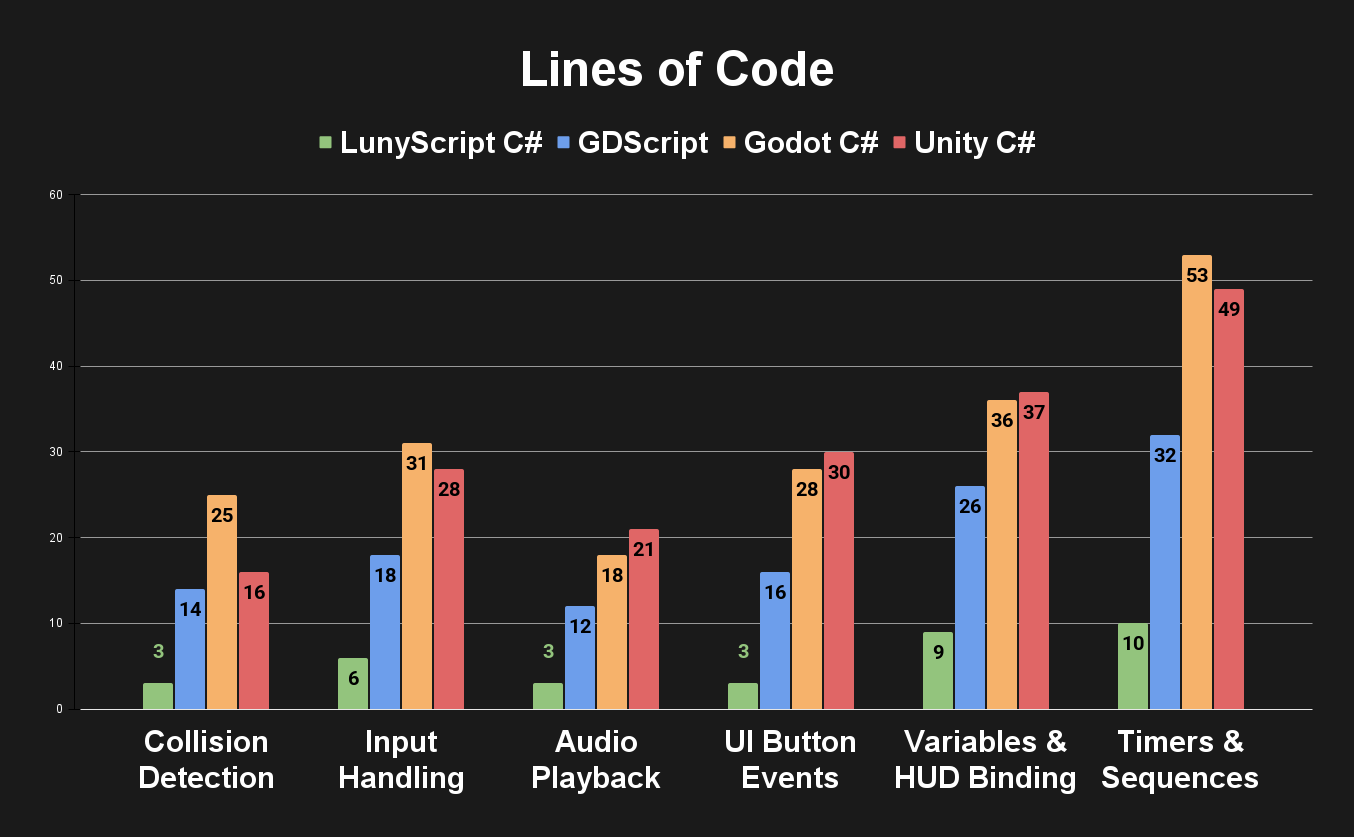
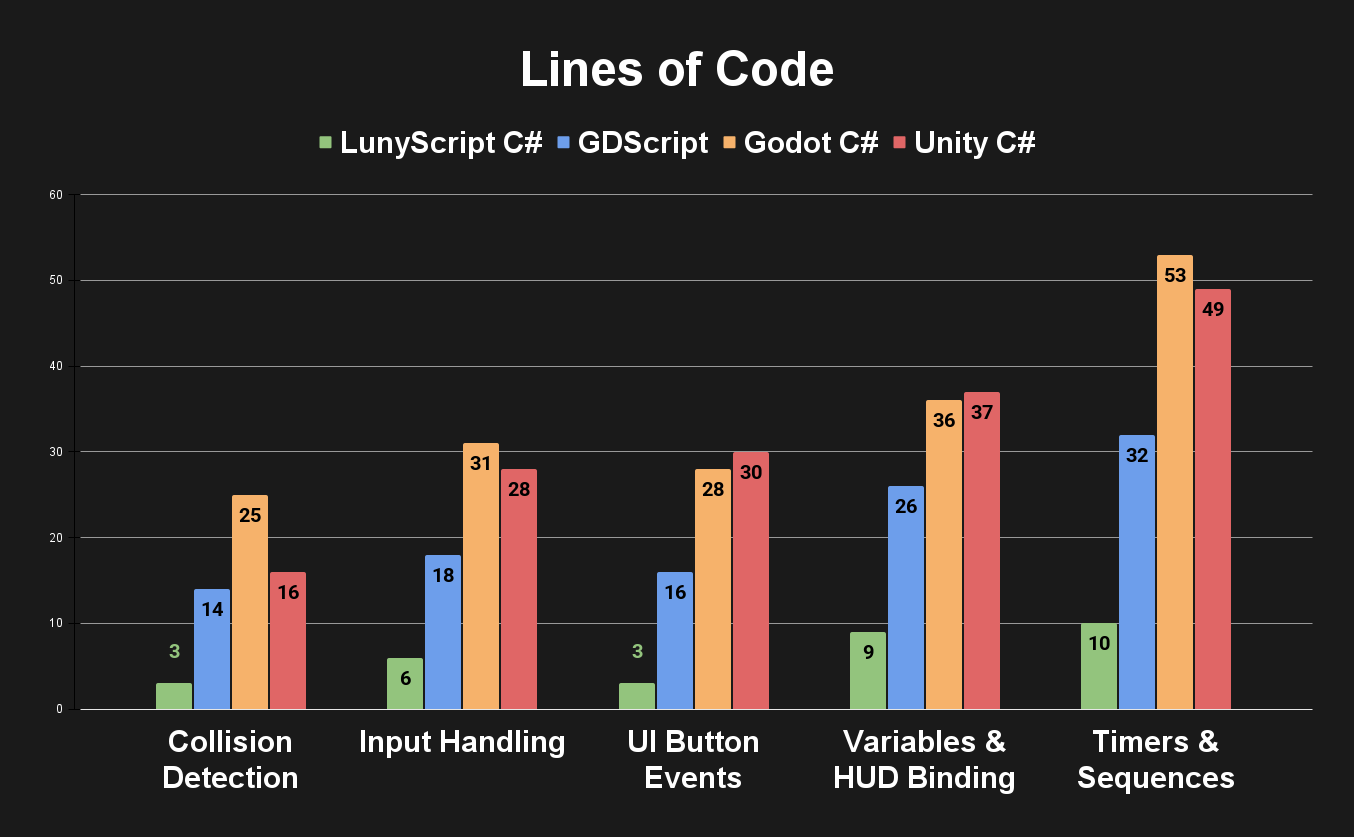
remove duplicate code sample

Changed region(s): [[0.0931, 0.2796, 0.9306, 0.963]]

diff --git a/docs/CodeComparison.md b/docs/CodeComparison.md
@@ -373,156 +373,8 @@ end)
 
 
 
-## 3. Audio Playback
 
-**Task:** Play a sound effect when an event occurs.
-
-**Overwhelm Reduction:** 80%
-
-<div class="code-tabs" data-group="audio">
-<div class="tab-buttons">
-<button class="tab-button active">LunyScript</button>
-<button class="tab-button">GDScript</button>
-<button class="tab-button">Godot C#</button>
-<button class="tab-button">Unity C#</button>
-<button class="tab-button">Roblox Lua</button>
-</div>
-<div class="tab-content active" markdown="1">
-
-**Lines of code:** 3
-
-**Concepts needed:** 0 new concepts
-
-```csharp
-protected override void OnReady()
-{
-  When.Collision.With("Wall").Begins(Audio.Play("bump"));
-}
-```
-
-</div>
-<div class="tab-content" markdown="1">
-
-**Lines of code:** 12
-
-**Concepts needed:** @export, @onready, AudioStream vs Player, new() instantiation, add_child, signal connections, groups
-
-```gdscript
-@export var bump_sound: AudioStream
-@onready var audio_player: AudioStreamPlayer3D = AudioStreamPlayer3D.new()
-
-func _ready():
-  add_child(audio_player)
-  body_entered.connect(_on_body_entered)
-
-func _on_body_entered(body: Node3D):
-  if body.is_in_group("Wall"):
-      if bump_sound:
-          audio_player.stream = bump_sound
-          audio_player.play()
-```
-
-</div>
-<div class="tab-content" markdown="1">
-
-**Lines of code:** 18 (10 w/o braces)
-
-**Concepts needed:** AudioStream vs AudioStreamPlayer3D, Export, node creation, AddChild, setting Stream before Play, groups
-
-```csharp
-[Export] private AudioStream _bumpSound;
-private AudioStreamPlayer3D _audioPlayer;
-
-public override void _Ready()
-{
-  _audioPlayer = new AudioStreamPlayer3D();
-  AddChild(_audioPlayer);
-}
-
-private void _OnBodyEntered(Node3D body)
-{
-  if (body.IsInGroup("Wall"))
-  {
-      if (_bumpSound != null && _audioPlayer != null)
-      {
-          _audioPlayer.Stream = _bumpSound;
-          _audioPlayer.Play();
-      }
-  }
-}
-```
-
-</div>
-<div class="tab-content" markdown="1">
-
-**Lines of code:** 21 (12 w/o braces)
-
-**Concepts needed:** AudioClip vs AudioSource, SerializeField, GetComponent, AddComponent, PlayOneShot vs Play, null checking, component architecture
-
-```csharp
-[SerializeField] private AudioClip bumpSound;
-private AudioSource audioSource;
-
-private void Start()
-{
-  audioSource = GetComponent<AudioSource>();
-  if (audioSource == null)
-  {
-      audioSource = gameObject.AddComponent<AudioSource>();
-  }
-}
-
-private void OnCollisionEnter(Collision collision)
-{
-  if (collision.gameObject.CompareTag("Wall"))
-  {
-      if (bumpSound != null && audioSource != null)
-      {
-          audioSource.PlayOneShot(bumpSound);
-      }
-  }
-}
-```
-
-</div>
-<div class="tab-content" markdown="1">
-
-**Lines of code:** 18
-
-**Concepts needed:** CollectionService, Touched event, :Connect(), Instance.new(), SoundId/asset IDs, debounce pattern
-
-```lua
-local CollectionService = game:GetService("CollectionService")
-local object = script.Parent
-local bumpSound = object:FindFirstChild("BumpSound")
-
-if not bumpSound then
-  bumpSound = Instance.new("Sound")
-  bumpSound.Name = "BumpSound"
-  bumpSound.SoundId = "rbxassetid://12345678"
-  bumpSound.Parent = object
-end
-
-local debounce = false
-
-object.Touched:Connect(function(hit)
-  if debounce then return end
-  if CollectionService:HasTag(hit, "Wall") and bumpSound then
-    debounce = true
-    bumpSound:Play()
-    task.wait(0.1)
-    debounce = false
-  end
-end)
-```
-
-</div>
-</div>
-
-
-
-
-## 4. UI Button Events
+## 3. UI Button Events
 
 **Task:** Restart the game when clicking the "Try Again" button.
 
@@ -697,7 +549,7 @@ end)
 
 
 
-## 5. Variables & HUD Binding
+## 4. Variables & HUD Binding
 
 **Task:** Display a score variable on the UI that automatically updates.
 
@@ -916,7 +768,7 @@ end)
 
 
 
-## 6. Timers & Sequences
+## 5. Timers & Sequences
 
 **Task:** Countdown timer that ends the game when it reaches zero.
 
@@ -1178,15 +1030,14 @@ end)
 
 ## Summary Table
 
-| Concept | LunyScript LOC | GDScript LOC | Godot C# LOC | Unity LOC | Overwhelm Reduction |
-|---------|----------------|--------------|--------------|--------------|---------------------|
-| Collision Detection | 3 | 14 | 25+ (15) | 16 (10) | 90% |
-| Input Handling | 6 | 18 | 31 (19) | 28 (18) | 85% |
-| Audio Playback | 3 | 12 | 18 (10) | 21 (12) | 80% |
-| UI Button Events | 3 | 16 | 28 (16) | 30 (18) | 75% |
-| Variables & HUD Binding | 9 | 26 | 36 (22) | 37 (23) | 70% |
-| Timers & Sequences | 10 | 32 | 53 (31) | 49 (29) | 65% |
-| **Total** | **34** | **118** | **191 (113)** | **181 (110)** | **77% average** |
+| Concept | LunyScript LOC | GDScript LOC | Godot C# LOC  | Unity LOC    | Overwhelm Reduction |
+|---------|----------------|--------------|---------------|--------------|---------------------|
+| Collision Detection | 3              | 14           | 25+ (15)      | 16 (10)      | 90% |
+| Input Handling | 6              | 18           | 31 (19)       | 28 (18)      | 85% |
+| UI Button Events | 3              | 16           | 28 (16)       | 30 (18)      | 75% |
+| Variables & HUD Binding | 9              | 26           | 36 (22)       | 37 (23)      | 70% |
+| Timers & Sequences | 10             | 32           | 53 (31)       | 49 (29)      | 65% |
+| **Total** | **31**         | **106**      | **173 (103)** | **160 (98)** | **77% average** |
 
 
 ## Key Observations
